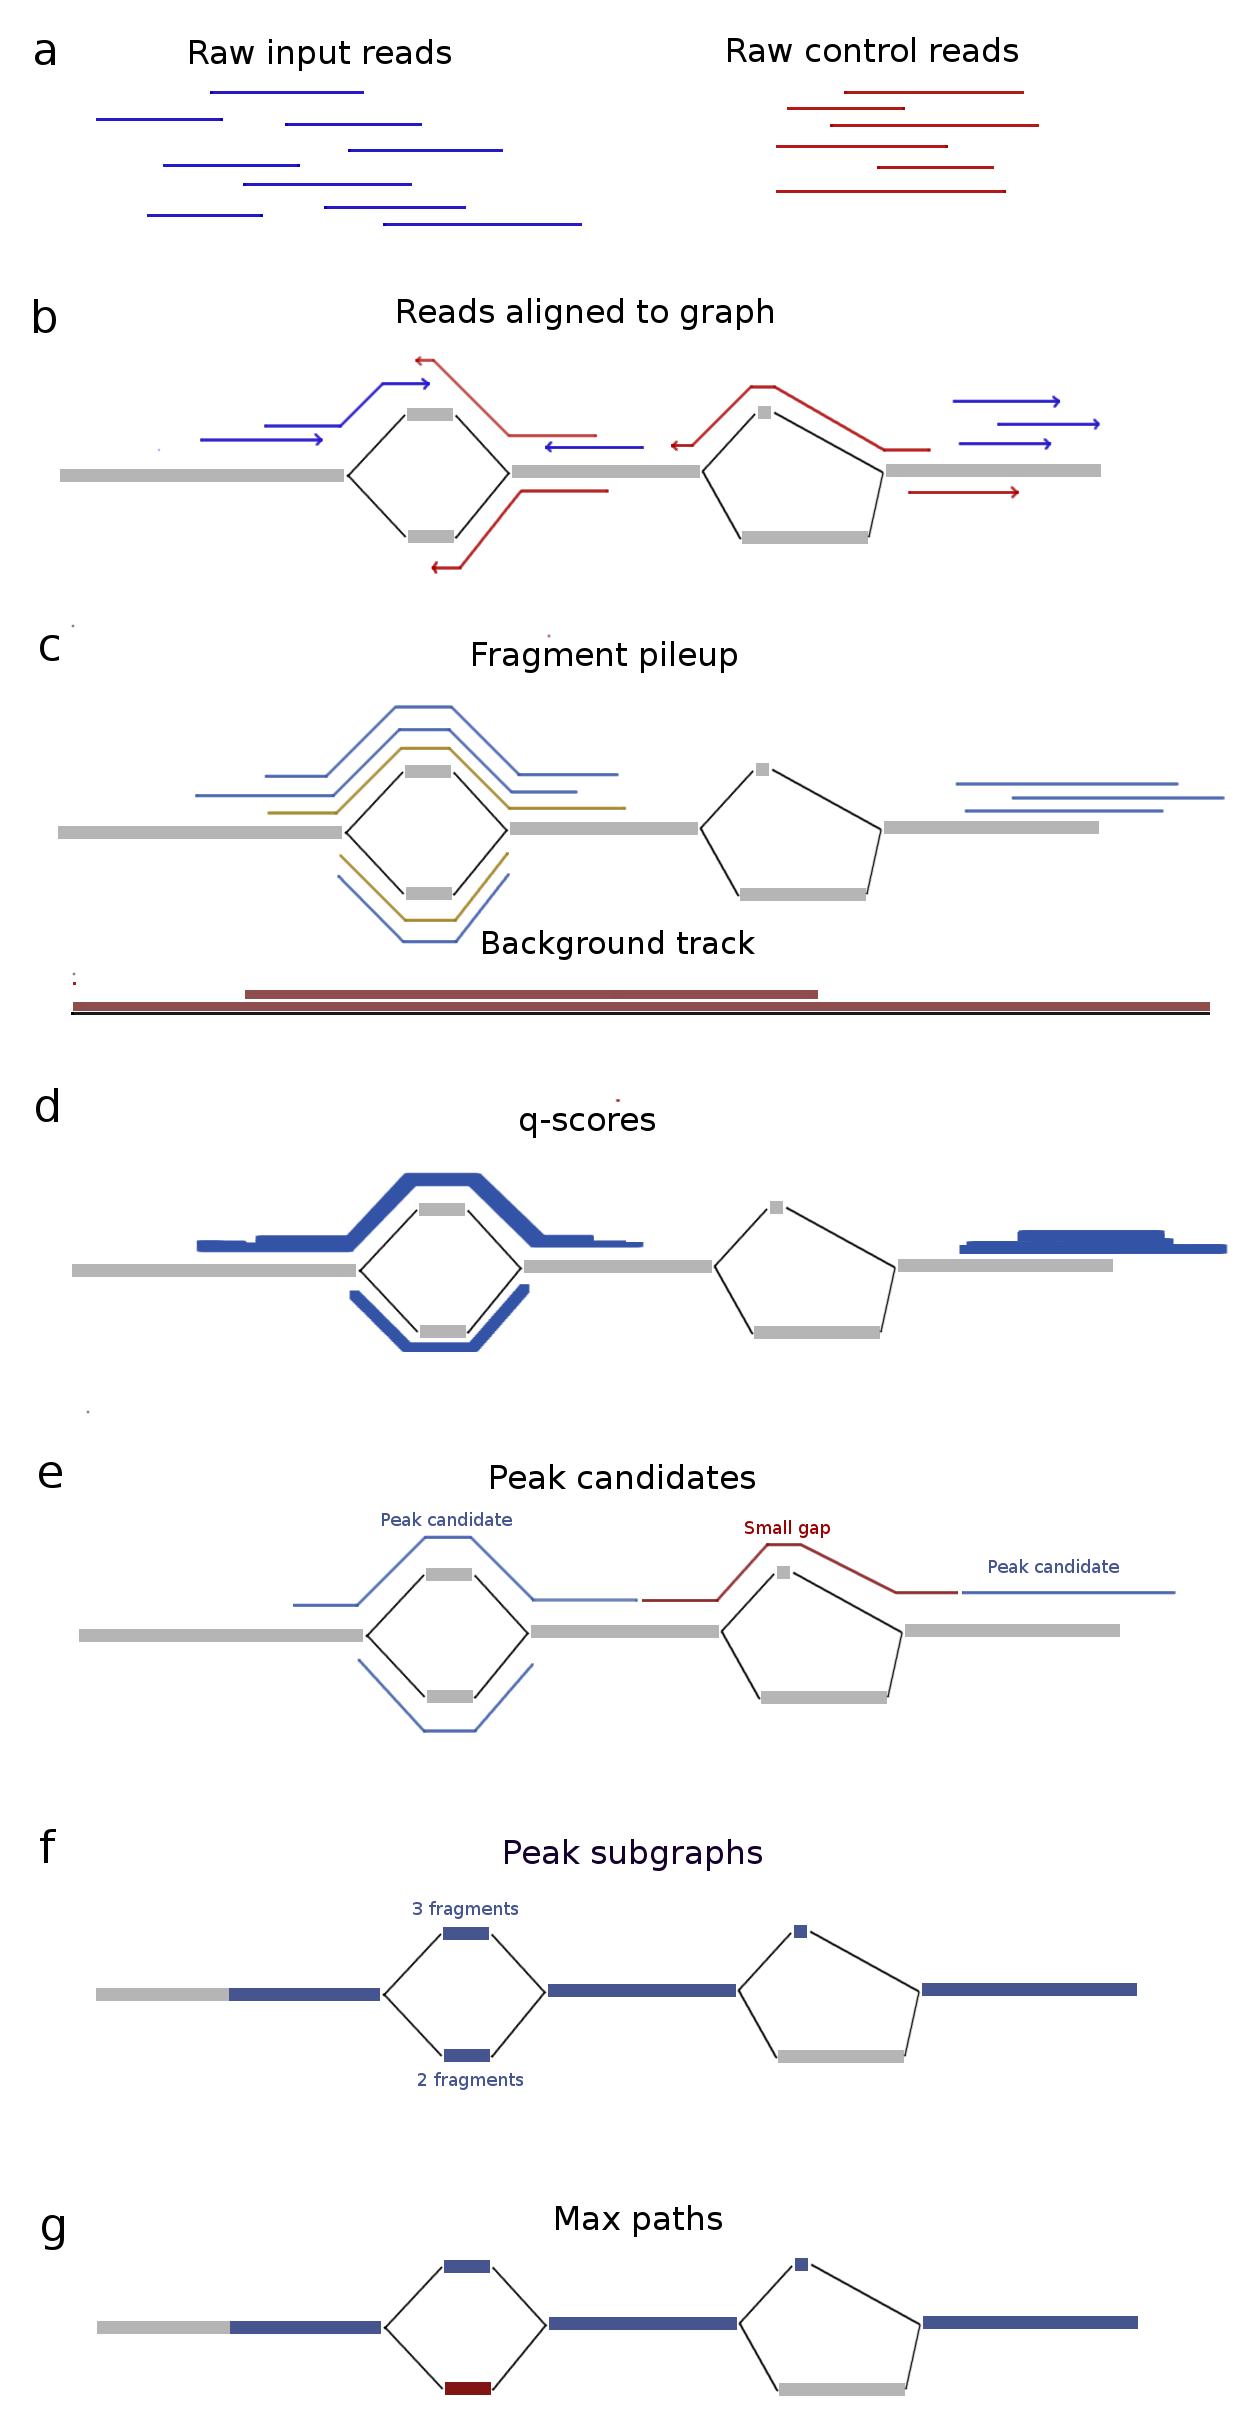
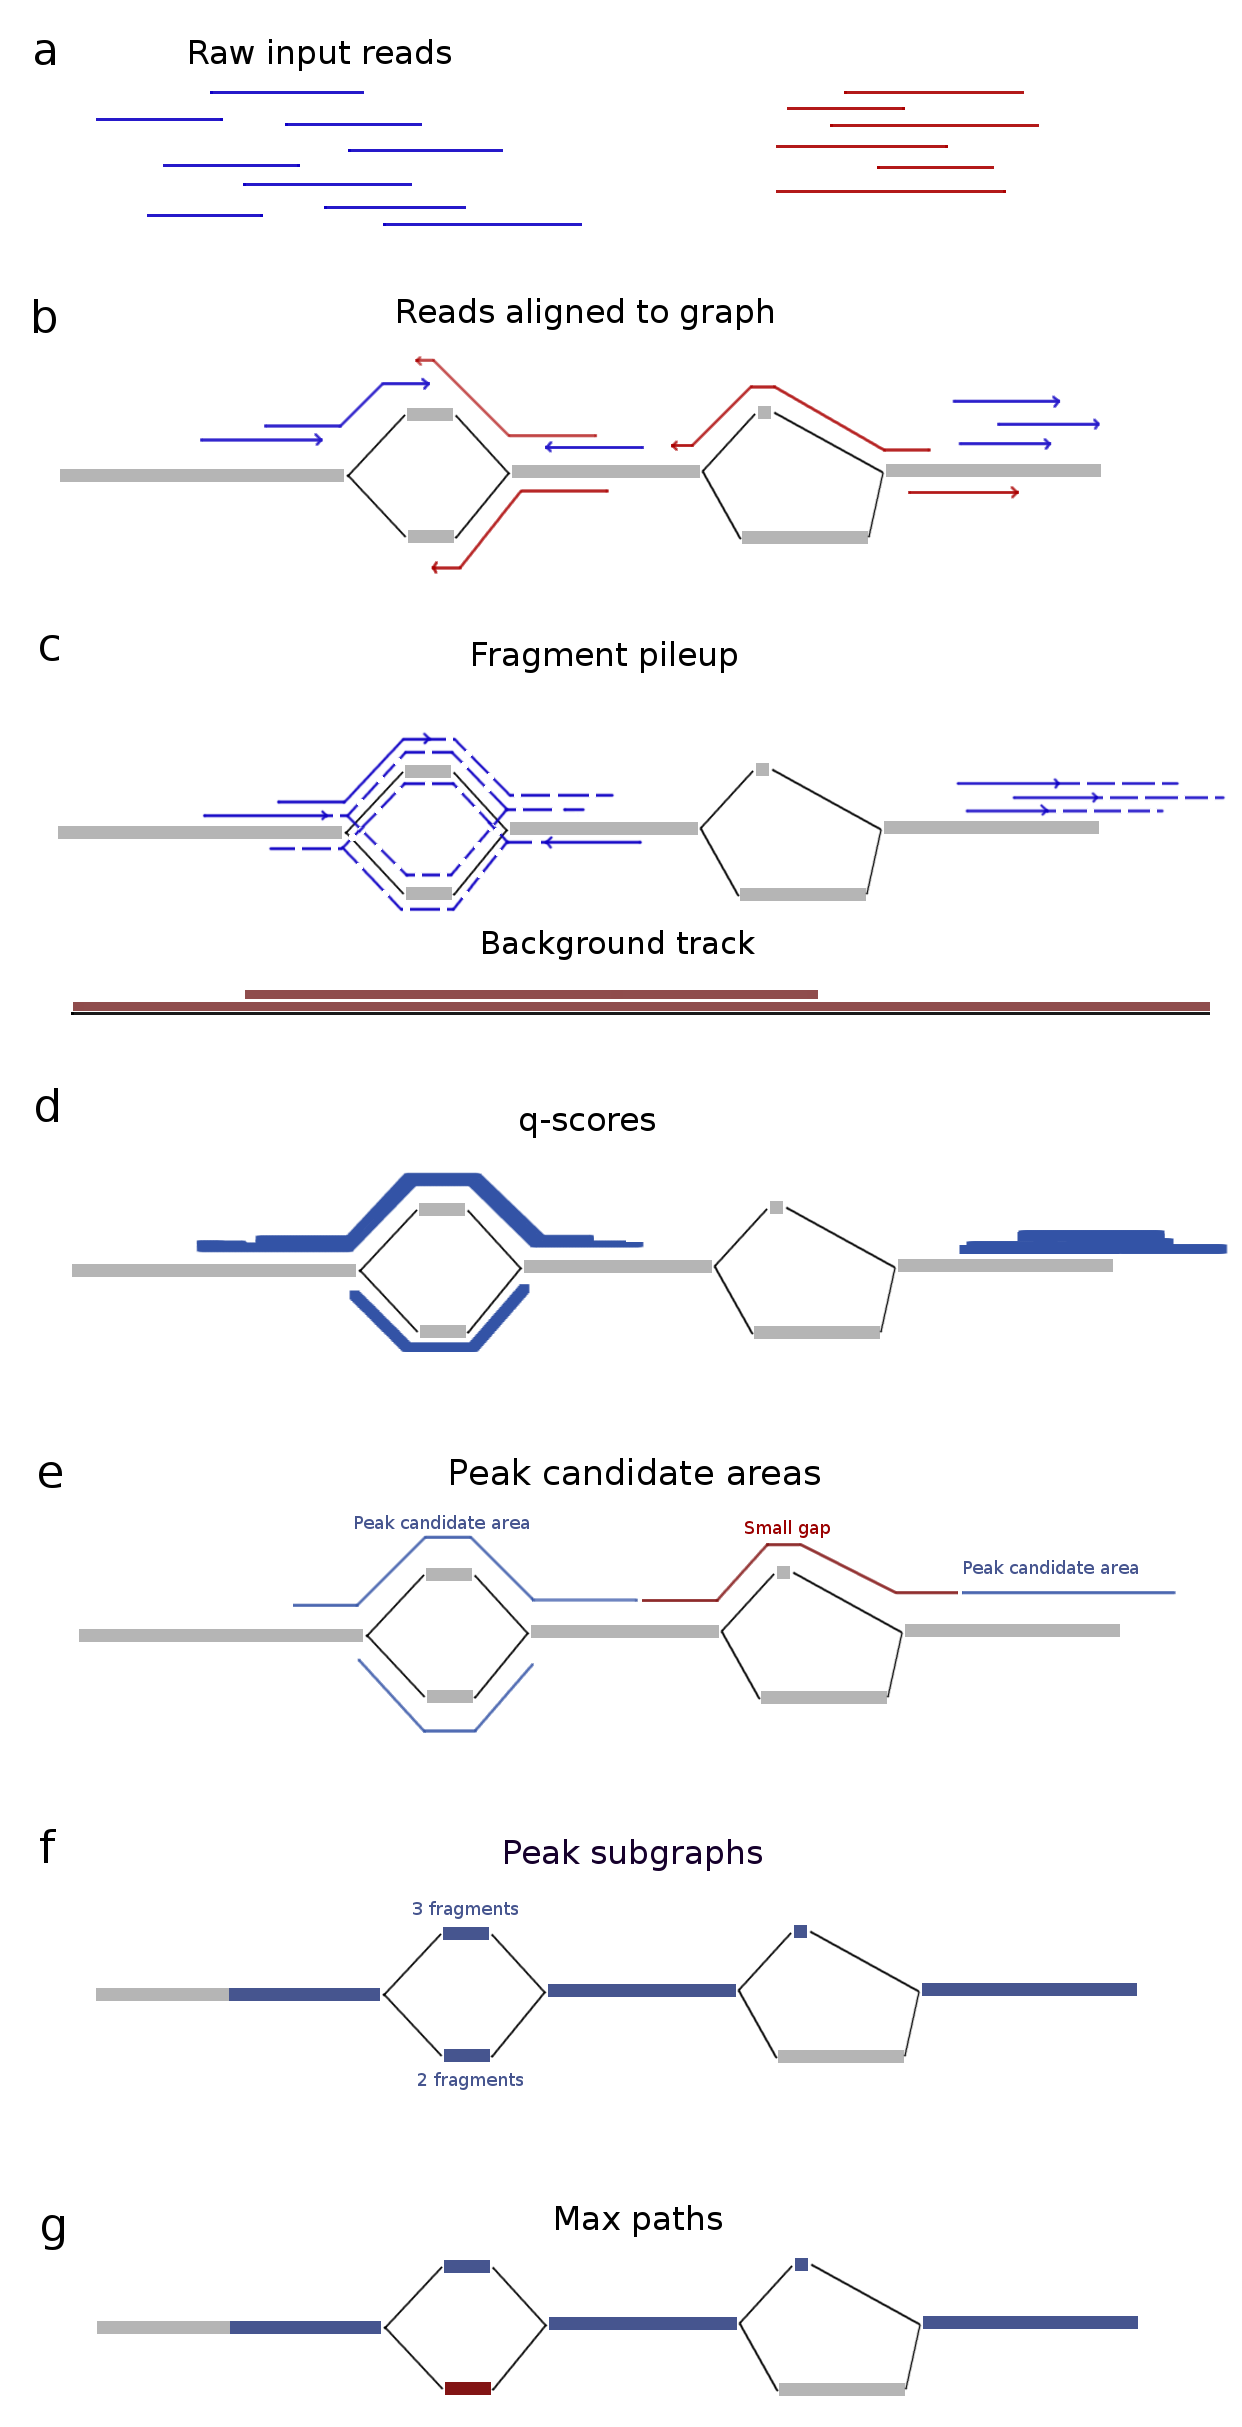
New figure 1

diff --git a/graph_peak_caller.tex b/graph_peak_caller.tex
@@ -284,9 +284,9 @@ We present Graph Peak Caller, a first method for detecting transcription factor 
 
 \begin{figure}
 
-   \frame{ \includegraphics[width=0.5\textwidth]{figures/Fig1.png}  }
+   \frame{ \includegraphics[width=0.6\textwidth]{figures/Fig1.png}  }
  
-    \caption{{\bf Overview of how Graph Peak Caller works.} Example of peak calling on an example graph (nodes in gray, edges in black). After raw reads (a) in the form of input reads (blue) and control reads (red) have been mapped to the graph-based reference genome and filtered based on mapping quality (b), the fragment pileup is created (c) by extending the forward input alignments (shown as resulting blue fragments) and reverse input alignments (yellow fragments) along all possible paths in their corresponding direction. A background track is created by projecting the alignments resulting from the control reads onto a linear path and calculating a local average  read counts (here shown with a small window size). Then the linear track is projected back to the graph again (not shown). The fragment pileup counts are treated as \emph{counts} and the background track as \emph{rates} in a Poisson-distribution, and p-values are computed for each position for the observed count, given the corresponding rate. Adjusted q-values are computed to control the false discovery rate (d) (figure shows q-scores, which are -$log_{10}(qvalue)$). A set of peak candidates are selected by thresholding the q-values on a user-defined threshold (default 0.05), resulting in a set of candidate peaks with gaps between them (e). Small gaps are filled, resulting in a set of peak areas (connected subgraphs)(f). Graph Peak Caller finds a single “maximum path” (g, maximum path in blue) through each peak subgraph by selecting the path that has the highest number of input reads mapped to it. }
+    \caption{{\bf Overview of how Graph Peak Caller works.} Example of peak calling on an example graph (nodes in gray, edges in black). After raw reads (a) in the form of input reads (blue) and control reads (red) have been mapped to the graph-based reference genome and filtered based on mapping quality (b), the fragment pileup is created (c) by extending the forward input alignments and reverse input alignments (extensions shown as dotted lines) along all possible paths in their corresponding direction. A background track is created by projecting the alignments resulting from the control reads onto a linear path and calculating a local average  read counts (here shown with a small window size). Then the linear track is projected back to the graph again (not shown). The fragment pileup counts are treated as \emph{counts} and the background track as \emph{rates} in a Poisson-distribution, and p-values are computed for each position for the observed count, given the corresponding rate. Adjusted q-values are computed to control the false discovery rate (d) (figure shows q-scores, which are -$log_{10}(qvalue)$). The q-values are thresholded on a user-defined threshold (default 0.05), resulting in a set of peak candidate areas with gaps between them (e). Small gaps are filled, resulting in a set of peak subgraphs (connected subgraphs)(f). Graph Peak Caller finds a single “maximum path” (g, maximum path in blue) through each peak subgraph by selecting the path that has the highest number of input reads mapped to it. }
 %\includegraphics[width=0.5\textwidth]{figures/Fig1.png} \label{fig}
    \label{overview_figure}
 
@@ -360,7 +360,7 @@ We have presented a first peak caller for ChIP-seq data mapped to a graph-based 
 	
 Furthermore, Graph Peak Caller has a significantly higher proportion of motif-enriched peaks among its uniquely found peaks, showing that Graph Peak Caller is finding peaks enriched for motifs that MACS2 is not finding, e.g. the peak seen in Fig~\ref{motif_enrichment_reads}. As seen in Table~\ref{S2table}, these peaks covers more variations from the linear reference genome compared to the peaks found by both peak callers, and thus seem to be in areas where the advantages of graph-based reference genomes are more pronounced. 
 
-We developed Graph Peak Caller close to MACS2, so we easily could validate our graph-based approach and accurately measure the benefits of doing peak calling on a graph-based reference genome rather than on a linear reference-genome. Having this as a working first approach to graph-based peak calling, it will now be natural and interesting  to extend our work by drawing ideas from other peak callers or develop new peak calling principles to further improve graph-based peak calling. Also, Graph Peak Caller currently assumes no known information about the specific paths of the diploid genome of the individual that ChIP-seq data has been collected from. It would be interesting to develop a ChIP-seq pipeline where the path(s) through the reference graph are known (or estimated based on the ChIP-seq data), and compare that approach to Graph Peak Caller.
+We chose to develop Graph Peak Caller by tightly following the principles of MACS2, so we easily could validate our graph-based approach and accurately measure the benefits of doing peak calling on a graph-based reference genome rather than on a linear reference-genome. Having this as a working first approach to graph-based peak calling, it will now be natural and interesting  to extend our work by drawing ideas from other peak callers or develop new peak calling principles to further improve graph-based peak calling. Also, Graph Peak Caller currently assumes no known information about the specific paths of the diploid genome of the individual that ChIP-seq data has been collected from. It would be interesting to develop a ChIP-seq pipeline where the path(s) through the reference graph are known (or estimated based on the ChIP-seq data), and compare that approach to Graph Peak Caller.
 
 There are a few challenges with a graph-based ChIP-seq approach. Mapping to graphs is still in its infancy, and has not yet reached its full potential. Also, both mapping to graph-based reference genomes as well as many of the operations required for doing peak calling, such as expanding input reads, are, in our experience, still a lot slower than existing solutions on linear reference genomes. 
 
